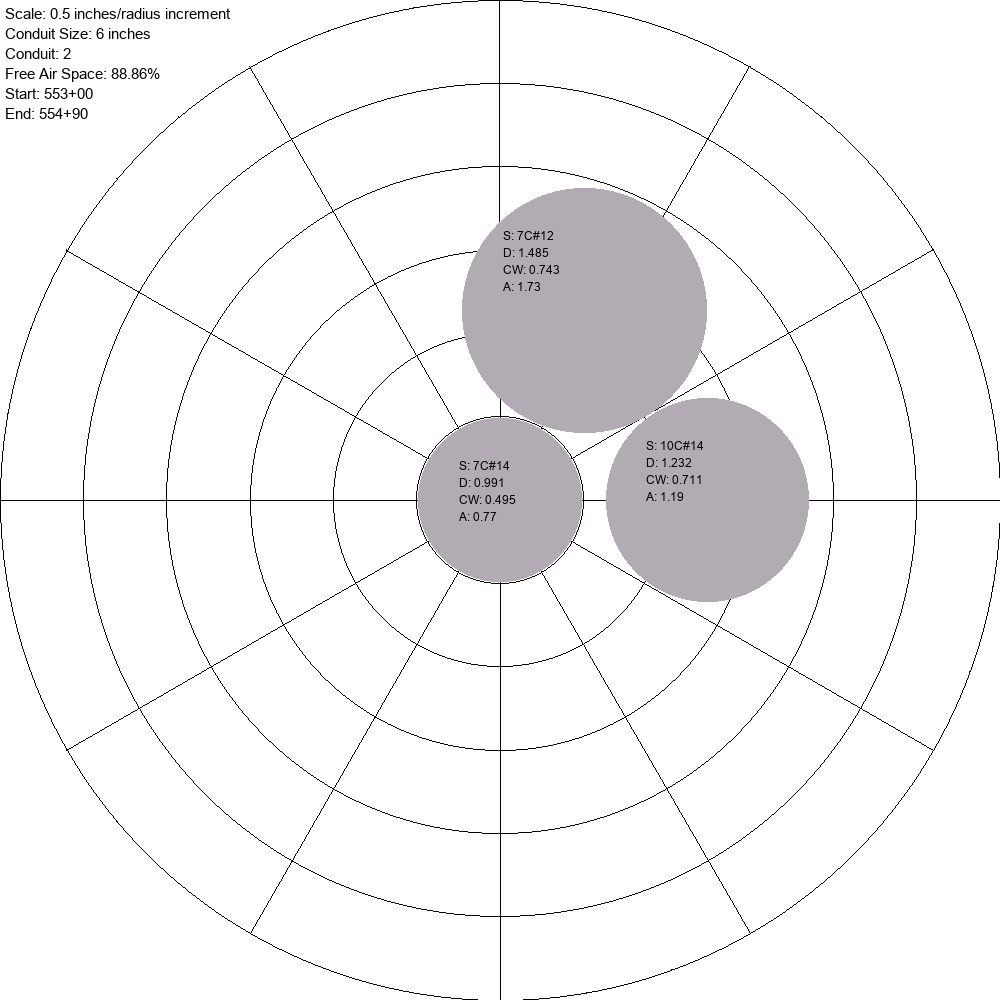
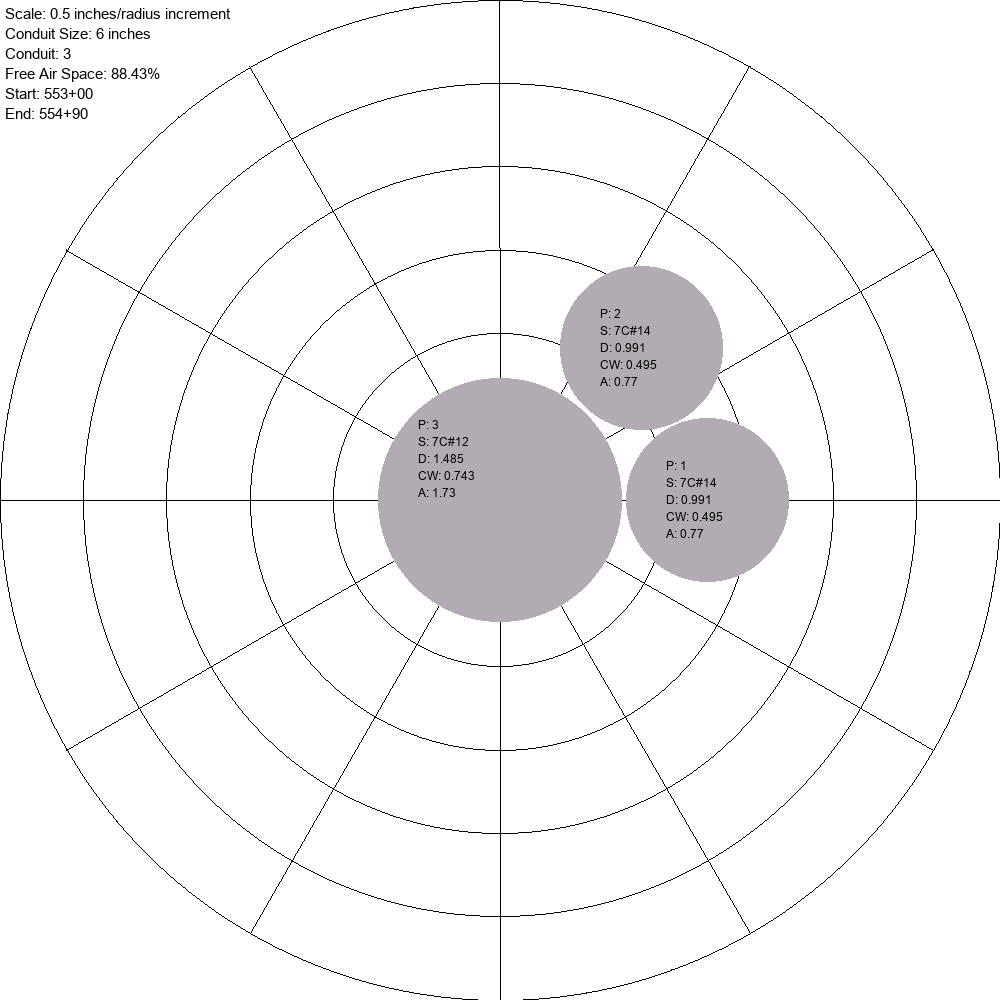
Sort stationing + size

Changed region(s): [[0.372, 0.186, 0.806, 0.62], [0.124, 0.062, 0.155, 0.093]]

diff --git a/conduit_algorithm.py b/conduit_algorithm.py
@@ -28,6 +28,13 @@ def optimize_for_conduit():
             if cable.stationing_start <= start_stationing and cable.stationing_end >= end_stationing:
                 cables_within_range.append(cable)
                 print(cable.pull_number)
+        # Sort cables within the range based on cross-sectional area (largest cable first)
+        cables_within_range.sort(key=lambda cable: cable.cross_sectional_area, reverse=True)
+        # Print cables within the range after sorting
+        print("Cables within the stationing range after sorting:")
+        for cable in cables_within_range:
+            print(f"Pull Number: {cable.pull_number}, Cross-sectional Area: {cable.cross_sectional_area}")
+
 
         # Create initial conduit for stationing range
         conduit_name = "conduit" + str(conduit_number)

diff --git a/visualizer.py b/visualizer.py
@@ -23,6 +23,7 @@ def draw_cable(draw, radius, angle_deg, cable, polar_center):
     angle_rad = math.radians(360 - angle_deg)
 
     # Extract cable data attributes
+    pull_number = cable.pull_number
     size = cable.cable_size
     diameter = cable.diameter
     pounds_per_foot = cable.weight
@@ -50,6 +51,7 @@ def draw_cable(draw, radius, angle_deg, cable, polar_center):
     text_y = center_y - cable_radius - text_margin_y    # Add y-direction offset
 
     text_lines = [
+        f"P: {pull_number}",
         f"S: {size}",
         f"D: {diameter}",
         f"CW: {pounds_per_foot}",
